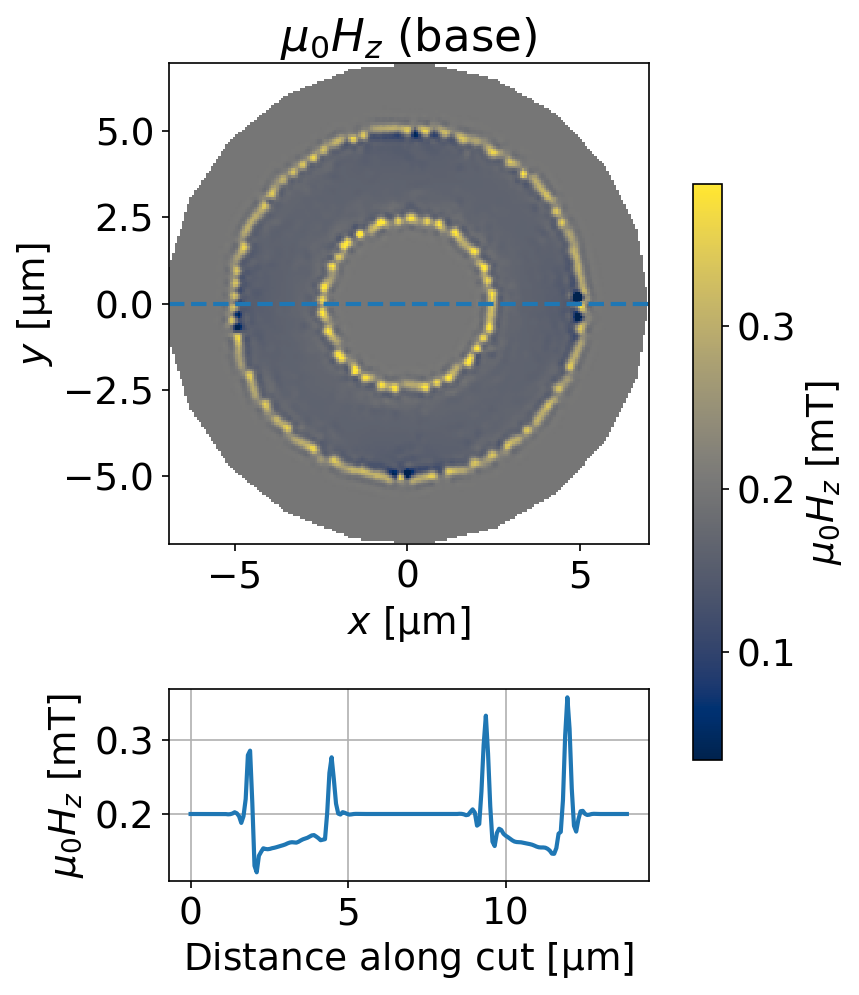
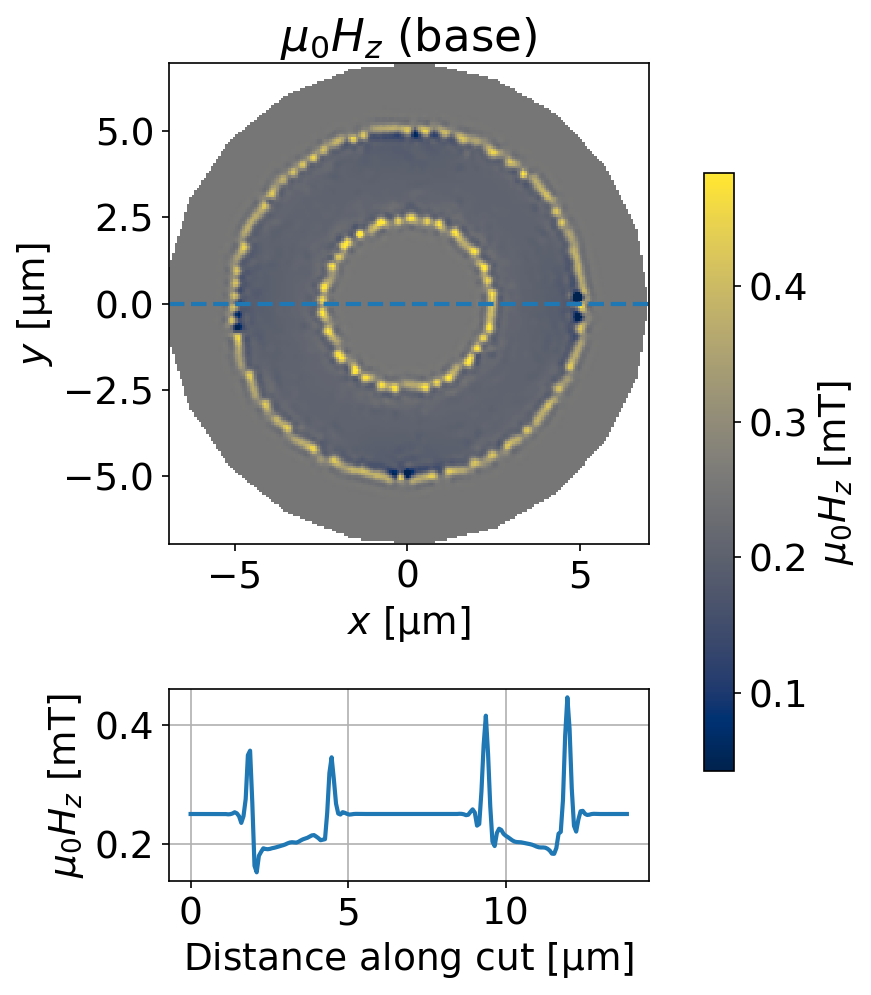
use 0.25 mT

diff --git a/examples/scripts/ring.py b/examples/scripts/ring.py
@@ -118,7 +118,7 @@ if __name__ == "__main__":
         )
 
         # Uniform applied field
-        applied_field = sc.sources.ConstantField(0.2)  # mT
+        applied_field = sc.sources.ConstantField(0.25)  # mT
 
         # Current circulating around the hole in the ring.
         circulating_currents = {"hole": "1 mA"}
@@ -205,7 +205,7 @@ if __name__ == "__main__":
         # Simulate the field and current distributions for a given
         # uniform applied field across a wide range of Lambdas,
         # assuming no trapped flux.
-        applied_field = sc.sources.ConstantField(0.2)
+        applied_field = sc.sources.ConstantField(0.25)
 
         solutions, _ = sc.solve_many(
             device=ring,
